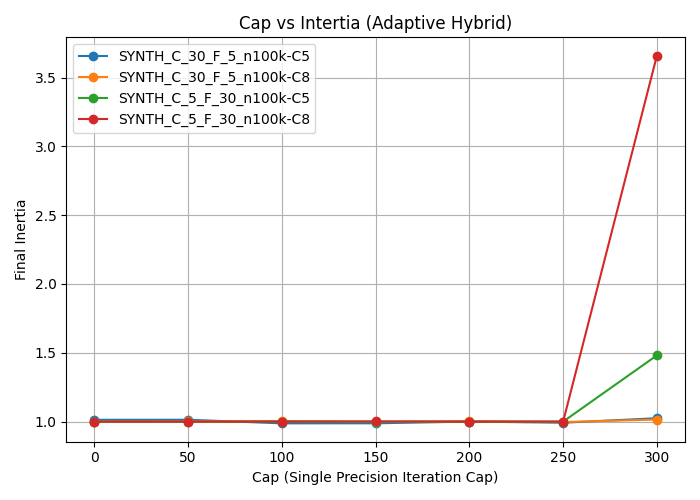
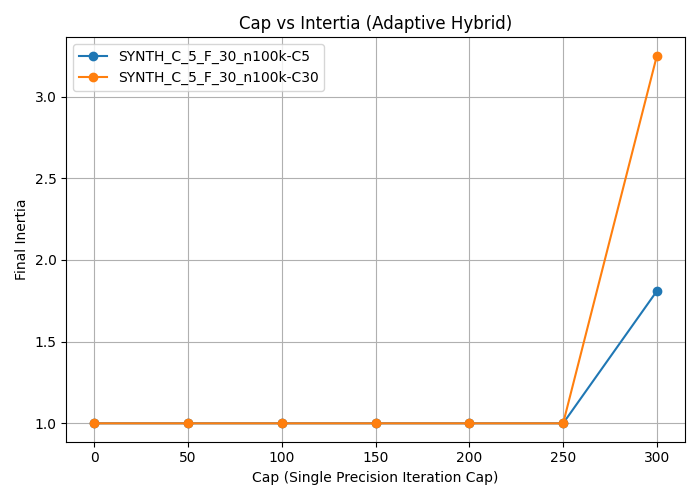
updated work

diff --git a/main.py b/main.py
@@ -44,8 +44,7 @@ def load_susy(n_rows=1_000_000):
 # CONFIGURATION PARAMETERS 
 dataset_sizes = [100000]
 # for the cluster size we are varying this for all datasets
-n_clusters_list = [5, 8]
-
+n_clusters_list = [5, 30]
 
 max_iter = 300
 
@@ -75,7 +74,7 @@ tol_single_grid = [1e-1, 1e-2, 1e-3, 1e-4]
 # tol_scale_C = 100 * tol_fixed_C
 # tol_single_grid = [tol_scale_C]
 
-n_repeats = 5
+n_repeats = 3
 rng_global = np.random.default_rng(0)
 
 # Real-dataset
@@ -286,7 +285,7 @@ def pca_2d_view(X_full, centers_full, random_state=0):
 # FULL DOUBLE PRECISION RUN
 def run_full_double(X, initial_centers, n_clusters, max_iter, tol, y_true):
     start_time = time.time()
-    kmeans = KMeans(n_clusters=n_clusters, init=initial_centers, n_init=1, max_iter=max_iter,tol=tol, algorithm='elkan', random_state=0)
+    kmeans = KMeans(n_clusters=n_clusters, init=initial_centers, n_init=1, max_iter=max_iter,tol=tol, algorithm='lloyd', random_state=0)
     kmeans.fit(X)
     iters_double_tot = kmeans.n_iter_
     elapsed = time.time() - start_time
@@ -311,7 +310,7 @@ def run_hybrid(X, initial_centers, n_clusters, max_iter_total, tol_single, tol_d
     # this
     max_iter_single=max(1,min(single_iter_cap, max_iter_total))
     # K=means algorithm for single precision
-    kmeans_single = KMeans(n_clusters=n_clusters, init=initial_centers_32, n_init=1, max_iter=max_iter_single, tol=tol_single,random_state=0, algorithm = 'elkan'
+    kmeans_single = KMeans(n_clusters=n_clusters, init=initial_centers_32, n_init=1, max_iter=max_iter_single, tol=tol_single,random_state=0, algorithm = 'lloyd'
     )
     # start time 
     kmeans_single.fit(X_single)
@@ -327,7 +326,7 @@ def run_hybrid(X, initial_centers, n_clusters, max_iter_total, tol_single, tol_d
     # X_double = X.astype(np.float64)
     initial_centers_64 = centers32.astype(np.float64)
 
-    kmeans_double = KMeans( n_clusters=n_clusters, init=initial_centers_64, n_init=1, max_iter=remaining_iter, tol=tol_double, random_state=seed, algorithm= 'elkan')
+    kmeans_double = KMeans( n_clusters=n_clusters, init=initial_centers_64, n_init=1, max_iter=remaining_iter, tol=tol_double, random_state=seed, algorithm= 'lloyd')
     kmeans_double.fit(X)
     
     end_time_double = time.time() - start_time_double
@@ -369,9 +368,10 @@ def run_one_dataset(ds_name: str, X_full: np.ndarray, y_full, rows_A, rows_B):
                 X_cur = X_ns[:, :n_features]   
                 y_true_cur = y_ns          
 
-                print(f"→ n={n_samples:,}  C={n_clusters}  "f"({ds_name})", flush=True)
+                print(f"→ n={n_samples:,} F={n_features} C={n_clusters}  "f"({ds_name})", flush=True)
+                print(f"The total number of features is : F={n_features}")
 
-                init_kmeans = KMeans(n_clusters=n_clusters, init='random', n_init=1, random_state=0,  max_iter =1)
+                init_kmeans = KMeans(n_clusters=n_clusters, init='random', n_init=1, random_state=0,  max_iter = 1)
                 initial_fit = init_kmeans.fit(X_cur)
                 initial_centers = init_kmeans.cluster_centers_
 
@@ -383,7 +383,7 @@ def run_one_dataset(ds_name: str, X_full: np.ndarray, y_full, rows_A, rows_B):
                         X_cur, initial_centers, n_clusters, max_iter, tol_fixed_A, y_true_cur
                         )
 
-                        rows_A.append([ds_name, n_samples, n_clusters,"A", 0, 1e-16,  iters_single_tot, iters_double_tot,"Double",  elapsed, mem_MB_double, 
+                        rows_A.append([ds_name, n_samples, n_clusters,"A", 0, 1e-16,  iters_single_tot, iters_double_tot, "Double",  elapsed, mem_MB_double, 
                                         ari,  dbi, inertia])
                                  
                         print(f" [Double] {rows_A}", flush=True) 
@@ -418,9 +418,9 @@ def run_one_dataset(ds_name: str, X_full: np.ndarray, y_full, rows_A, rows_B):
                             X_cur, initial_centers, n_clusters, max_iter_B, tol_double_B, y_true_cur
                             )
 
-                        rows_B.append([ ds_name, n_samples, n_clusters, "B", tol_double_B,  iters_single_tot, iters_double_tot, "Double", elapsed, mem_MB_double,
+                            rows_B.append([ ds_name, n_samples, n_clusters, "B", tol_double_B,  iters_single_tot, iters_double_tot, "Double", elapsed, mem_MB_double,
                                         ari, dbi, inertia])
-                        print(f"[Double Baseline - Exp B] tol={tol_double_B} | iter_double={iters_double_tot}")
+                            print(f"[Double Baseline - Exp B] tol={tol_double_B} | iter_double={iters_double_tot}")
 
                         option = "B"
                         for tol_s in tol_single_grid:
@@ -460,7 +460,7 @@ for tag, n, d, k, seed in synth_specs:
     X, y = generate_data(n, d, k, random_state=seed)
     print(f"[SYNTH] {tag:14s}  shape={X.shape}  any_NaN={np.isnan(X).any()}",
           flush=True)
-    # check if the mappings are correct to the run_one_dataset function
+    # check if the mappings are correct to the run_one_dataset
     run_one_dataset(tag, X, y, rows_A, rows_B)
 
 # real datasets
@@ -507,7 +507,7 @@ print(df_B.groupby([
 
 # how to plot for the different types of graphs that we have
 plot_hybrid_cap_vs_inertia()
-plot_cap_vs_time()
+plot_cap_vs_time() 
 plot_tolerance_vs_inertia()
 plot_tolerance_vs_time()
 
